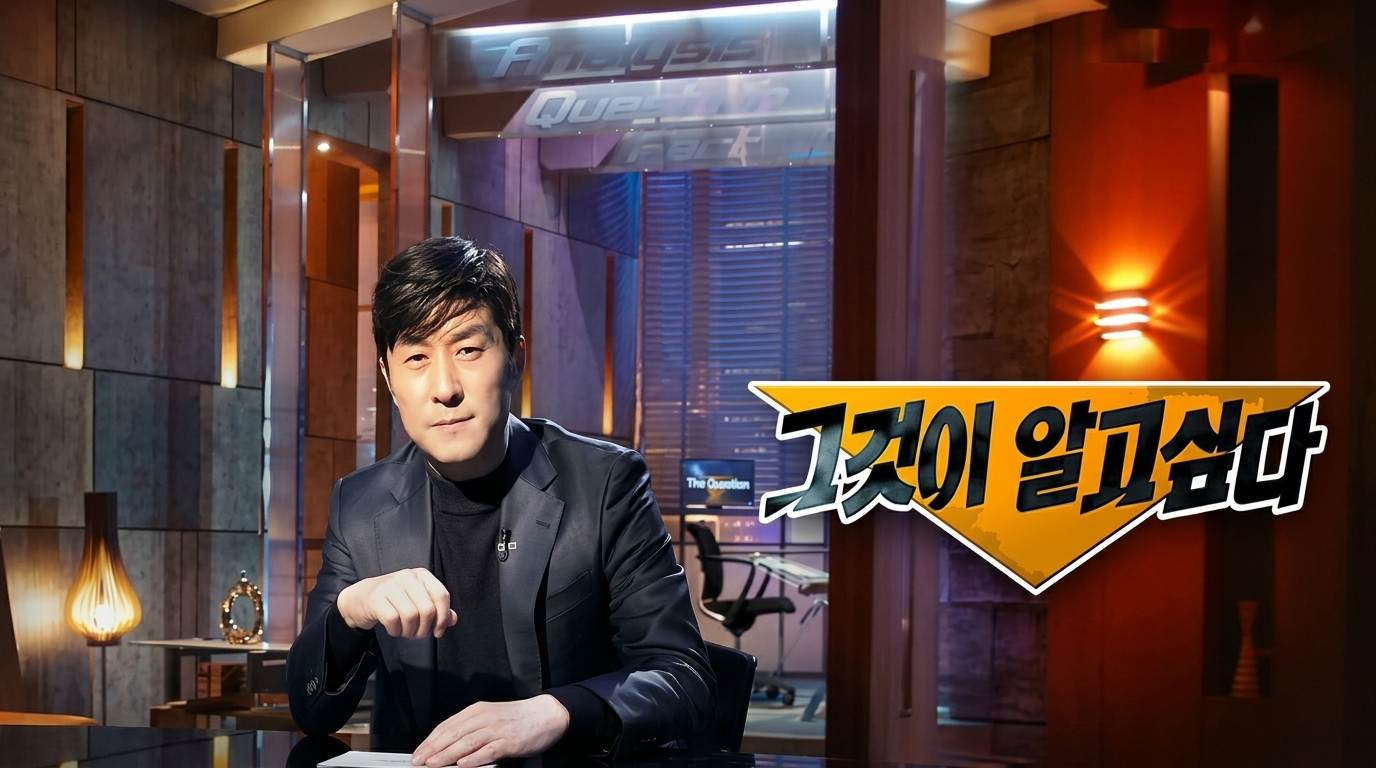
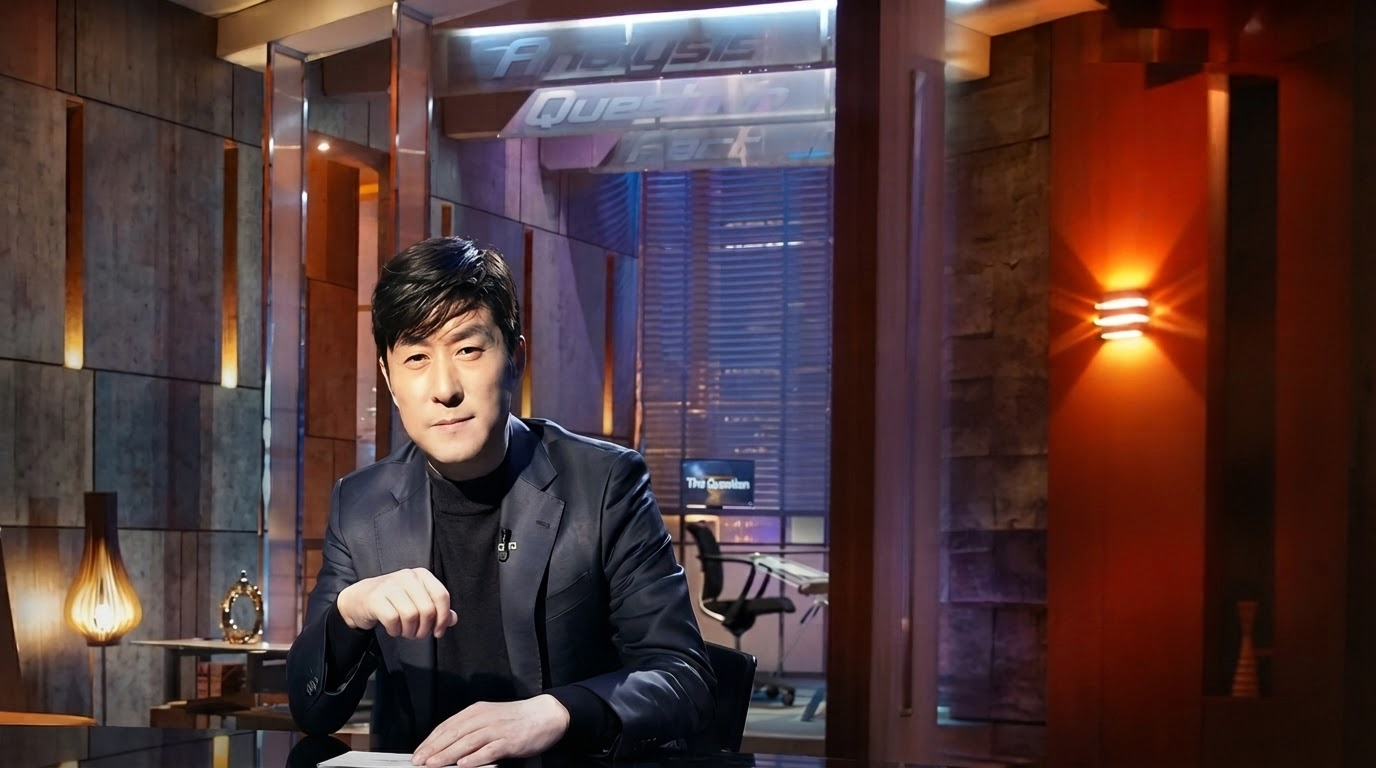
서브 히어로 이미지 변경 + 텍스트 이미지 추가

diff --git a/src/data/categoryData.js b/src/data/categoryData.js
@@ -230,9 +230,9 @@ export const categoryPages = {
   entertainment: {
     name: '예능',
     heroItems: [
-      { id: 'ent-hero-1', title: '런닝맨', subtitle: '일요일 저녁, 웃음 레이스는 계속된다', image: '/images/home/hero/ent_hero01.png', link: '/programdetail/ent-01' },
-      { id: 'ent-hero-2', title: '피의 게임 3', subtitle: '웨이브 오리지널 서바이벌', image: '/images/home/hero/ent_hero02.webp', link: '/programdetail/ent-14' },
-      { id: 'ent-hero-3', title: '여행을 대하는 자세', subtitle: '지금 떠나고 싶은 여행 예능', image: '/images/home/hero/ent_hero03.webp', link: '/programdetail/ent-16' },
+      { id: 'ent-hero-1', title: '런닝맨', subtitle: '일요일 저녁, 웃음 레이스는 계속된다', image: '/images/home/hero/ent_hero01.png',textImage: '/images/home/hero/sub-ent-hero-text01.png', link: '/programdetail/ent-01' },
+      { id: 'ent-hero-2', title: '피의 게임 3', subtitle: '웨이브 오리지널 서바이벌', image: '/images/home/hero/ent_hero02.png',textImage:'/images/home/hero/sub-ent-hero-text02.png' ,link: '/programdetail/ent-14' },
+      { id: 'ent-hero-3', title: '여행을 대하는 자세', subtitle: '지금 떠나고 싶은 여행 예능', image: '/images/home/hero/ent_hero03.webp',textImage:'/images/home/hero/sub-ent-hero-text03.png', link: '/programdetail/ent-16' },
     ],
     filters: [
       { id: 'all', label: '예능전체' },
@@ -269,9 +269,9 @@ export const categoryPages = {
   drama: {
     name: '드라마',
     heroItems: [
-      { id: 'dra-hero-1', title: '모범택시 3', subtitle: '무지개 운수가 돌아왔다', image: '/images/home/hero/drama_hero01.png', link: '/programdetail/dra-01' },
-      { id: 'dra-hero-2', title: '약한영웅 Class 1', subtitle: '웨이브 오리지널 드라마', image: '/images/home/hero/drama_hero02.webp', link: '/programdetail/dra-14' },
-      { id: 'dra-hero-3', title: '메리 킬즈 피플', subtitle: '새로 공개된 금토 드라마', image: '/images/home/hero/drama_hero03.webp', link: '/programdetail/dra-13' },
+      { id: 'dra-hero-1', title: '모범택시 3', subtitle: '무지개 운수가 돌아왔다', image: '/images/home/hero/drama_hero01.png',textImage:'/images/home/hero/sub-drama-hero-text01.png', link: '/programdetail/dra-01' },
+      { id: 'dra-hero-2', title: '약한영웅 Class 1', subtitle: '웨이브 오리지널 드라마', image: '/images/home/hero/drama_hero02.webp',textImage:'/images/home/hero/sub-drama-hero-text02.png', link: '/programdetail/dra-14' },
+      { id: 'dra-hero-3', title: '메리 킬즈 피플', subtitle: '새로 공개된 금토 드라마', image: '/images/home/hero/drama_hero03.webp',textImage:'/images/home/hero/sub-drama-hero-text03.png', link: '/programdetail/dra-13' },
     ],
     filters: [
       { id: 'all', label: '드라마전체' },
@@ -306,9 +306,9 @@ export const categoryPages = {
   movie: {
     name: '영화',
     heroItems: [
-      { id: 'mov-hero-1', title: '범죄도시 4', subtitle: '지금 바로 구매하고 감상하세요', image: '/images/home/hero/movie_hero01.webp', link: '/moviedetail/mov-01' },
-      { id: 'mov-hero-2', title: '서울의 봄', subtitle: '1979년 12월 12일, 그날 밤', image: '/images/home/hero/movie_hero02.webp', link: '/moviedetail/mov-02' },
-      { id: 'mov-hero-3', title: '파일럿', subtitle: '새로 들어온 코미디 영화', image: '/images/home/hero/movie_hero03.webp', link: '/moviedetail/mov-07' },
+      { id: 'mov-hero-1', title: '범죄도시 4', subtitle: '지금 바로 구매하고 감상하세요', image: '/images/home/hero/movie_hero01.png',textImage:'/images/home/hero/sub-movie-hero-text01.png', link: '/moviedetail/mov-01' },
+      { id: 'mov-hero-2', title: '서울의 봄', subtitle: '1979년 12월 12일, 그날 밤', image: '/images/home/hero/movie_hero02.webp',textImage:'/images/home/hero/sub-movie-hero-text02.png', link: '/moviedetail/mov-02' },
+      { id: 'mov-hero-3', title: '파일럿', subtitle: '새로 들어온 코미디 영화', image: '/images/home/hero/movie_hero03.png',textImage:'/images/home/hero/sub-movie-hero-text03.png', link: '/moviedetail/mov-07' },
     ],
     filters: [
       { id: 'all', label: '영화전체' },
@@ -340,9 +340,9 @@ export const categoryPages = {
   currentaffairs: {
     name: '시사교양',
     heroItems: [
-      { id: 'cur-hero-1', title: '그것이 알고 싶다', subtitle: '진실을 향한 끈질긴 추적', image: '/images/home/hero/doc_hero01.png', link: '/programdetail/cur-01' },
-      { id: 'cur-hero-2', title: '다큐 인사이트', subtitle: '세상을 보는 새로운 시선', image: '/images/home/hero/doc_hero02.webp', link: '/programdetail/cur-12' },
-      { id: 'cur-hero-3', title: '걸어서 세계속으로', subtitle: '화면으로 떠나는 세계 여행', image: '/images/home/hero/doc_hero03.png', link: '/programdetail/cur-13' },
+      { id: 'cur-hero-1', title: '그것이 알고 싶다', subtitle: '진실을 향한 끈질긴 추적', image: '/images/home/hero/doc_hero01.png',textImage:'/images/home/hero/sub-doc-hero-text01.png', link: '/programdetail/cur-01' },
+      { id: 'cur-hero-2', title: '다큐 인사이트', subtitle: '세상을 보는 새로운 시선', image: '/images/home/hero/doc_hero02.webp',textImage:'/images/home/hero/sub-doc-hero-text02.png', link: '/programdetail/cur-12' },
+      { id: 'cur-hero-3', title: '걸어서 세계속으로', subtitle: '화면으로 떠나는 세계 여행', image: '/images/home/hero/doc_hero03.png',textImage:'/images/home/hero/sub-doc-hero-text03.png', link: '/programdetail/cur-13' },
     ],
     filters: [
       { id: 'all', label: '시사교양전체' },
@@ -373,9 +373,9 @@ export const categoryPages = {
   animation: {
     name: '애니',
     heroItems: [
-      { id: 'ani-hero-1', title: '나 혼자만 레벨업', subtitle: '최약체 헌터의 성장 스토리', image: '/images/home/hero/ani_hero01.webp', link: '/programdetail/ani-04' },
-      { id: 'ani-hero-2', title: '명탐정 코난', subtitle: '진실은 언제나 하나!', image: '/images/home/hero/ani_hero02.webp', link: '/programdetail/ani-01' },
-      { id: 'ani-hero-3', title: '캐치! 티니핑', subtitle: '아이와 함께 보는 키즈 애니', image: '/images/home/hero/ani_hero03.webp', link: '/programdetail/ani-11' },
+      { id: 'ani-hero-1', title: '나 혼자만 레벨업', subtitle: '최약체 헌터의 성장 스토리', image: '/images/home/hero/ani_hero01.webp',textImage:'/images/home/hero/sub-ani-hero-text01.png', link: '/programdetail/ani-04' },
+      { id: 'ani-hero-2', title: '명탐정 코난', subtitle: '진실은 언제나 하나!', image: '/images/home/hero/ani_hero02.webp',textImage:'/images/home/hero/sub-ani-hero-text02.png', link: '/programdetail/ani-01' },
+      { id: 'ani-hero-3', title: '캐치! 티니핑', subtitle: '아이와 함께 보는 키즈 애니', image: '/images/home/hero/ani_hero03.webp',textImage:'/images/home/hero/sub-ani-hero-text03.png', link: '/programdetail/ani-11' },
     ],
     filters: [
       { id: 'all', label: '애니전체' },
@@ -405,9 +405,9 @@ export const categoryPages = {
   global: {
     name: '해외시리즈',
     heroItems: [
-      { id: 'glo-hero-1', title: '하우스 오브 드래곤', subtitle: 'HBO 오리지널 시리즈', image: '/images/home/hero/foreign_hero01.png', link: '/programdetail/glo-01' },
-      { id: 'glo-hero-2', title: '화이트 로투스', subtitle: '새 시즌 공개', image: '/images/home/hero/foreign_hero02.png', link: '/programdetail/glo-05' },
-      { id: 'glo-hero-3', title: '경여년', subtitle: '화제의 중국 드라마', image: '/images/home/hero/foreign_hero03.webp', link: '/programdetail/glo-10' },
+      { id: 'glo-hero-1', title: '하우스 오브 드래곤', subtitle: 'HBO 오리지널 시리즈', image: '/images/home/hero/foreign_hero01.png',textImage:'/images/home/hero/sub-foreign-hero-text01.png', link: '/programdetail/glo-01' },
+      { id: 'glo-hero-2', title: '화이트 로투스', subtitle: '새 시즌 공개', image: '/images/home/hero/foreign_hero02.png',textImage:'/images/home/hero/sub-foreign-hero-text02.png', link: '/programdetail/glo-05' },
+      { id: 'glo-hero-3', title: '경여년', subtitle: '화제의 중국 드라마', image: '/images/home/hero/foreign_hero03.webp',textImage:'/images/home/hero/sub-foreign-hero-text03.png', link: '/programdetail/glo-10' },
     ],
     filters: [
       { id: 'all', label: '해외시리즈전체' },

diff --git a/src/components/wavve/SubPageHeader.jsx b/src/components/wavve/SubPageHeader.jsx
@@ -5,7 +5,7 @@ export const SubPageHeader = ({ heroItems = [], filters = [], activeFilter, onFi
   return (
     <>
       <HomeHero items={heroItems} />
-
+      {/* 장르 필터 버튼 영역 */}
       <nav className="category-filter" aria-label="장르 필터">
         {filters.map((filter) => (
           <button
